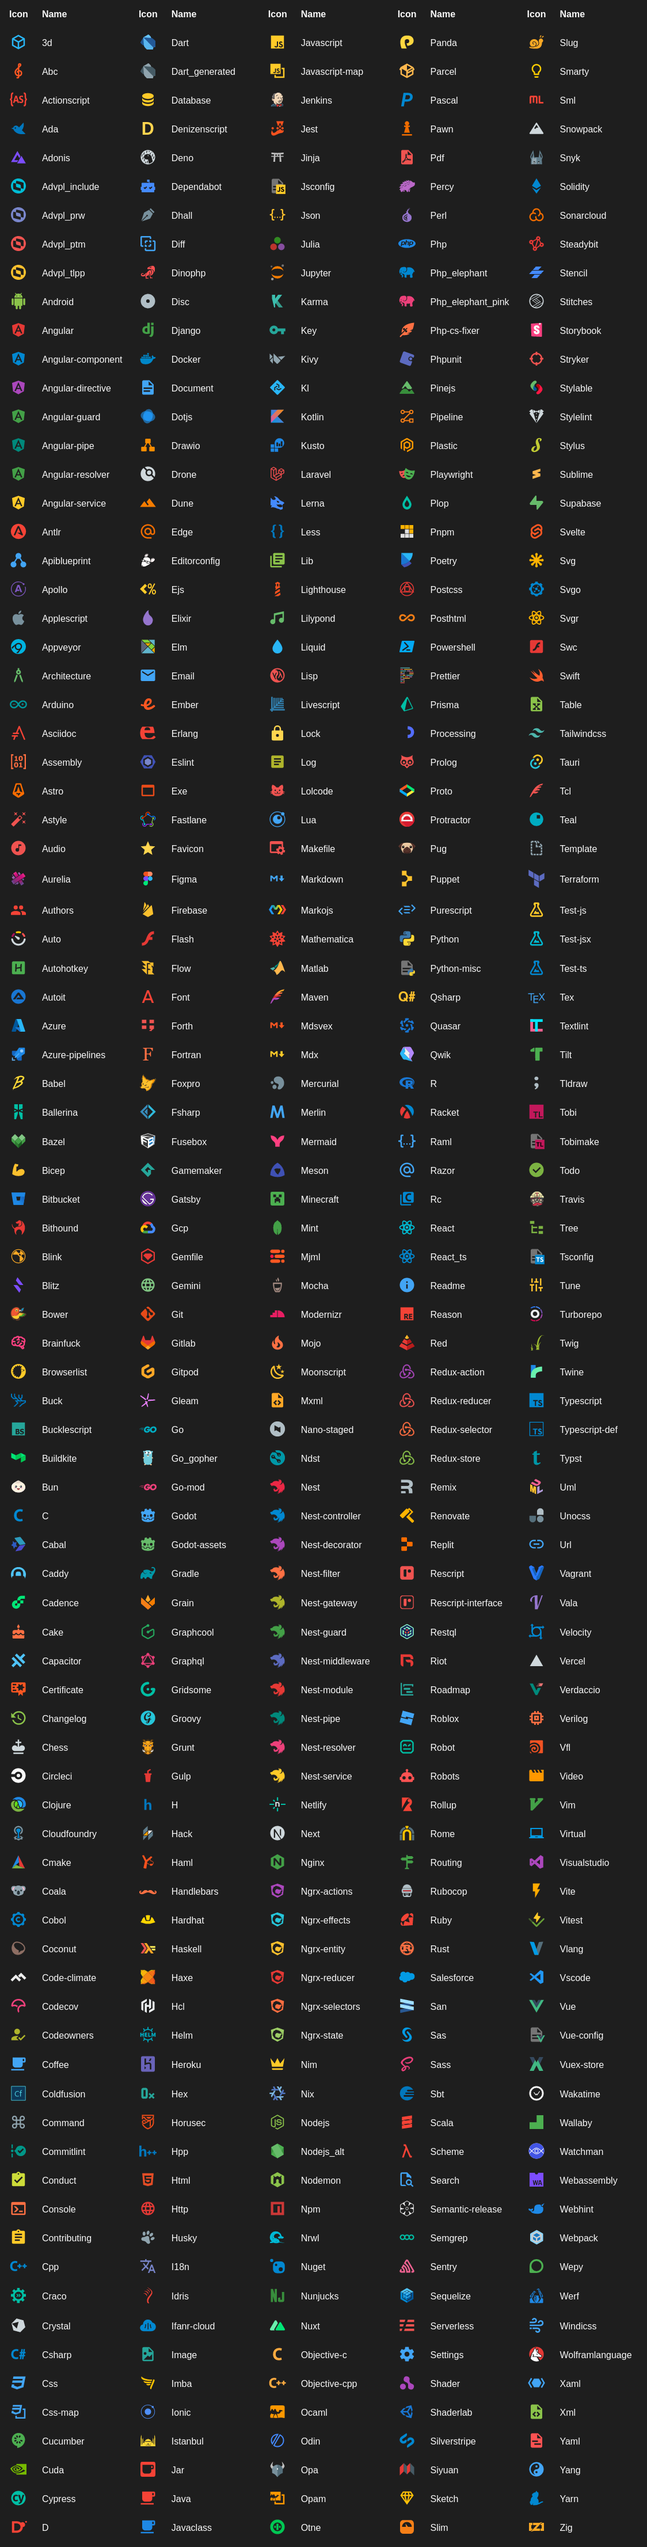
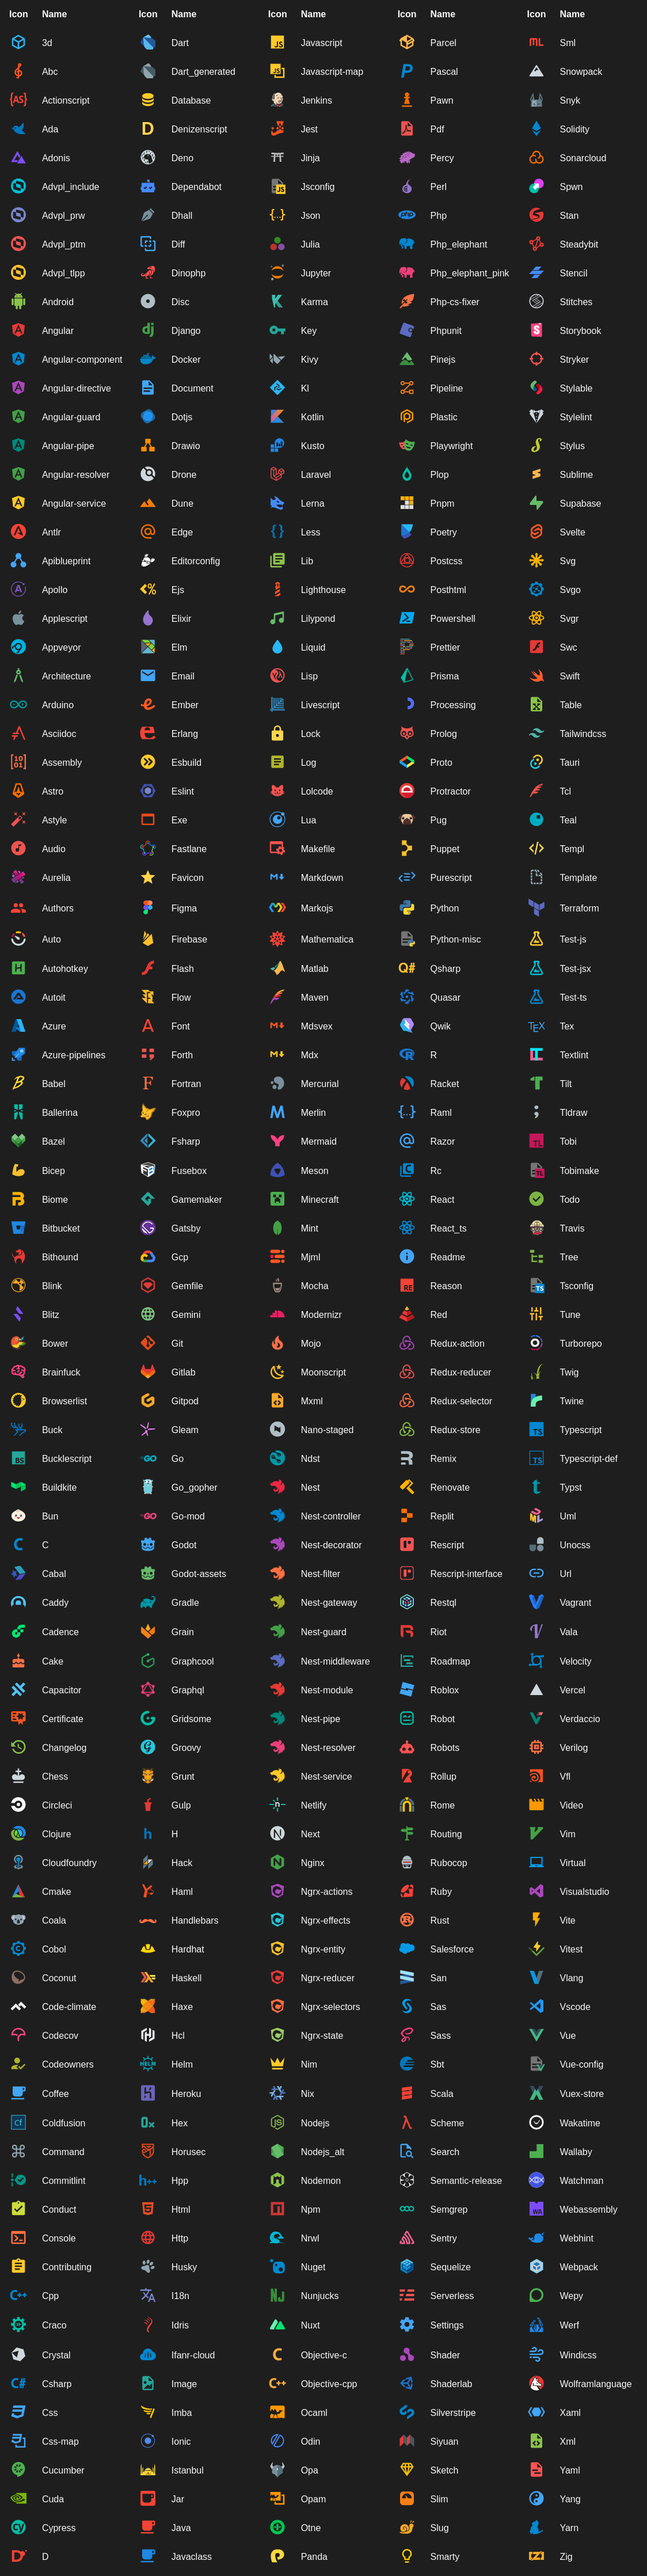
Release 4.31.0

diff --git a/CHANGELOG.md b/CHANGELOG.md
@@ -3,6 +3,24 @@
  All notable changes to this project will be documented in this file. Dates are displayed in UTC.
 
  
+#### [v4.31.0](https://github.com/PKief/vscode-material-icon-theme/compare/v4.30.1...v4.31.0) 
+
+> October 6, 2023 
+
+- added templ file icon [`#2102`](https://github.com/PKief/vscode-material-icon-theme/pull/2102)
+- Add .o and .zst extensions [`#2063`](https://github.com/PKief/vscode-material-icon-theme/pull/2063)
+- Add Biome icon [`#2075`](https://github.com/PKief/vscode-material-icon-theme/pull/2075)
+- Added .stan file icon [`#2050`](https://github.com/PKief/vscode-material-icon-theme/pull/2050)
+- [Icon Request] ESBuild [`#2104`](https://github.com/PKief/vscode-material-icon-theme/pull/2104)
+- add plural versions for manager, moderator, and admin folders [`#2098`](https://github.com/PKief/vscode-material-icon-theme/pull/2098)
+- Add SPWN file icon [`#2090`](https://github.com/PKief/vscode-material-icon-theme/pull/2090)
+- Support OWNERS files [`#2088`](https://github.com/PKief/vscode-material-icon-theme/pull/2088)
+- Remove sponsors badge from readme [`#2082`](https://github.com/PKief/vscode-material-icon-theme/pull/2082)
+- Add more panda file names (Closes #2065) [`afac99a`](https://github.com/PKief/vscode-material-icon-theme/commit/afac99a)
+- Add csharp file extension (Closes #2080) [`411e1c9`](https://github.com/PKief/vscode-material-icon-theme/commit/411e1c9)
+- feat: icons for desktop os [`#1635`](https://github.com/PKief/vscode-material-icon-theme/pull/1635)
+- Added disc file extensions (vmdk, qcow2, etc.) [`#2069`](https://github.com/PKief/vscode-material-icon-theme/pull/2069)
+ 
 #### [v4.30.1](https://github.com/PKief/vscode-material-icon-theme/compare/v4.30.0...v4.30.1) 
 
 > August 28, 2023 
